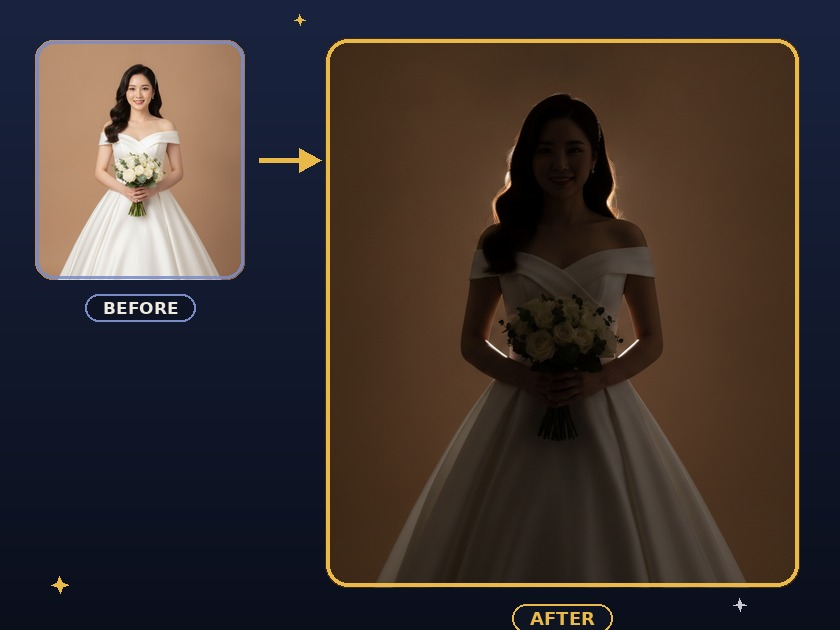
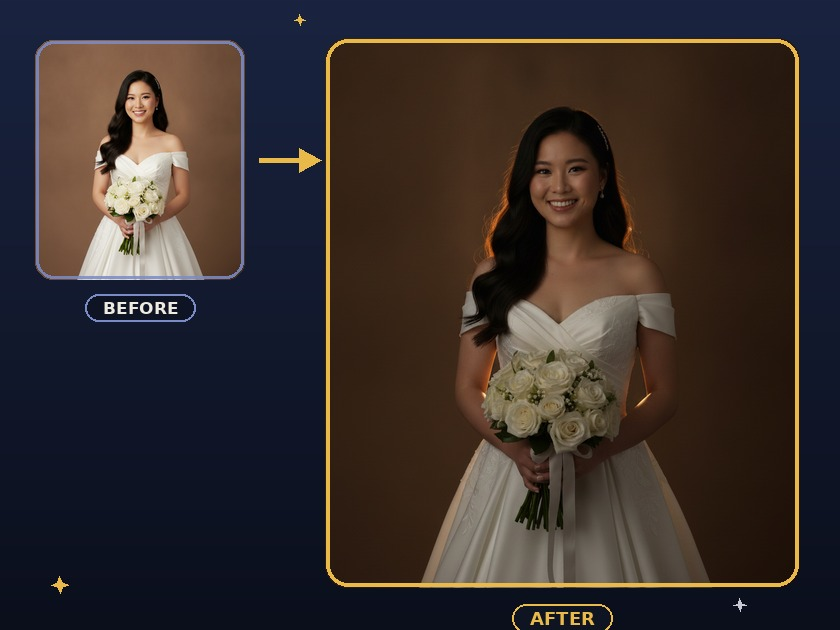
v4.20.19: brighten 4 workflow cards so the subject stays clearly visible (#126)
* v4.7.2: fix stale-version banner falsely firing on any version mismatch

The update-available toast compared version.json to APP_VER with !== instead
of a real newer-than check, so a stale/CDN-cached version.json serving an
OLDER value (observed live: a "3.8.0" banner while already on v4.7.1) wrongly
told users a new build had shipped. Added a semver-style verNewer() compare
so the toast only fires when the fetched version is genuinely newer.

Discovered from a user screenshot of the live Setup page while confirming
Gemini/RunningHub/OpenAI key verification all work end-to-end.

* v4.8.0: rebuild RunningHub Enterprise on the real Standard Model API

The RunningHub integration was built against a guessed API shape
(webappId + nodeInfoList, apiKey in the body) that turned out not to match
what Enterprise-Shared keys actually use. Working with a real key against
RunningHub's live docs and its published model-registry.public.json, the
actual API is the "Standard Model API" (openapi/v2): a fixed per-model
endpoint path, Bearer-token auth, and a JSON body — no app/workflow
node-ID mapping needed at all.

Rewrote the client: rhV2Upload/Submit/Query/PollUntilDone/GenerateOne
replace the old upload/run/status/outputs functions. Nano Banana 2
(rhart-image-n-g31-flash/image-to-image) ships as a built-in default
apiPath, confirmed end-to-end against the live docs and registry, so it
now works the instant a key is saved — no per-model setup. Other models
[…]

diff --git a/docs/app/sw.js b/docs/app/sw.js
@@ -1,6 +1,6 @@
 /* HNK Web Studio service worker — cache-first for library assets,
    network-first for everything else (so app updates arrive immediately). */
-var CACHE = "hnk-web-studio-v4-20-18";
+var CACHE = "hnk-web-studio-v4-20-19";
 var OFFLINE_URL = "./index.html";
 
 self.addEventListener("install", function (e) {

diff --git a/docs/app/index.html b/docs/app/index.html
@@ -3941,7 +3941,7 @@ if ("serviceWorker" in navigator) {
 }
 
 /* version check: tell cached users when a new build ships */
-var APP_VER="4.20.18";
+var APP_VER="4.20.19";
 (function(){
   var vv="v"+APP_VER;
   var nv=document.getElementById("navVer"); if(nv) nv.textContent=vv;
